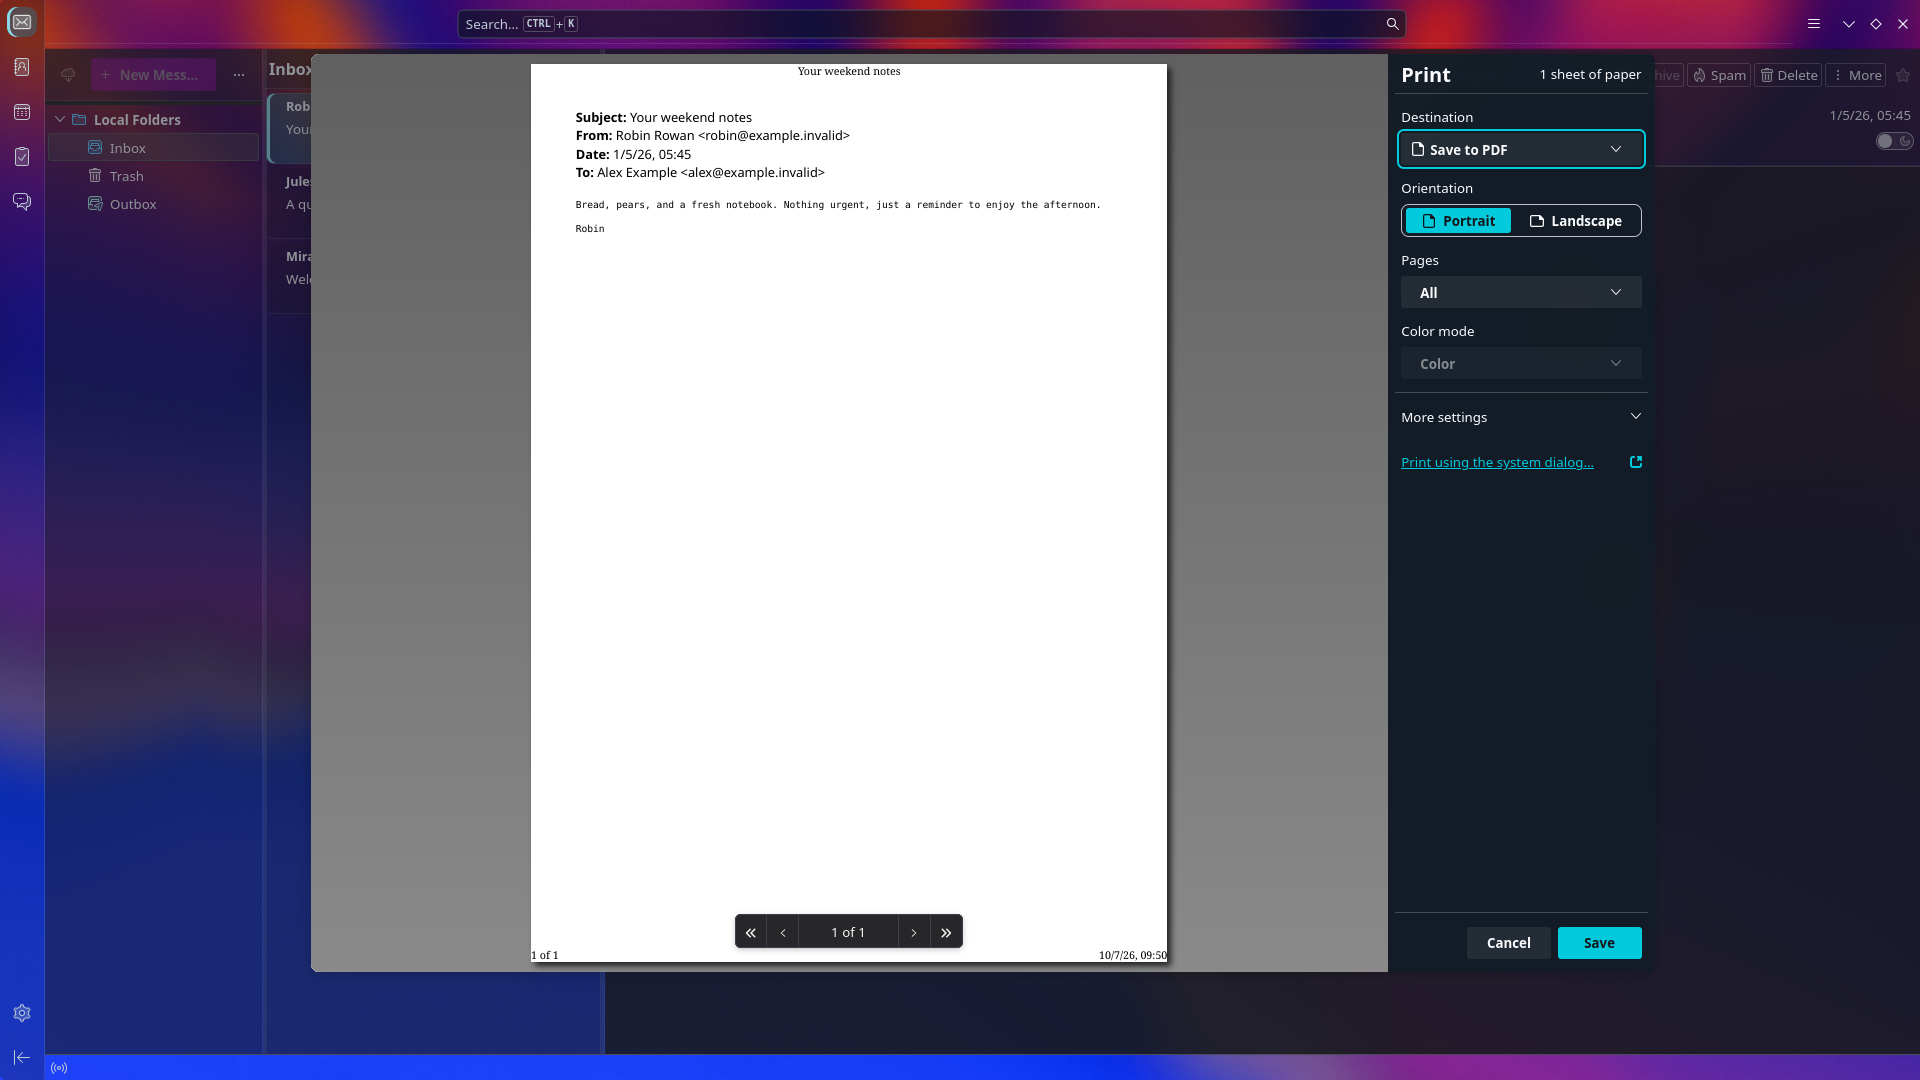
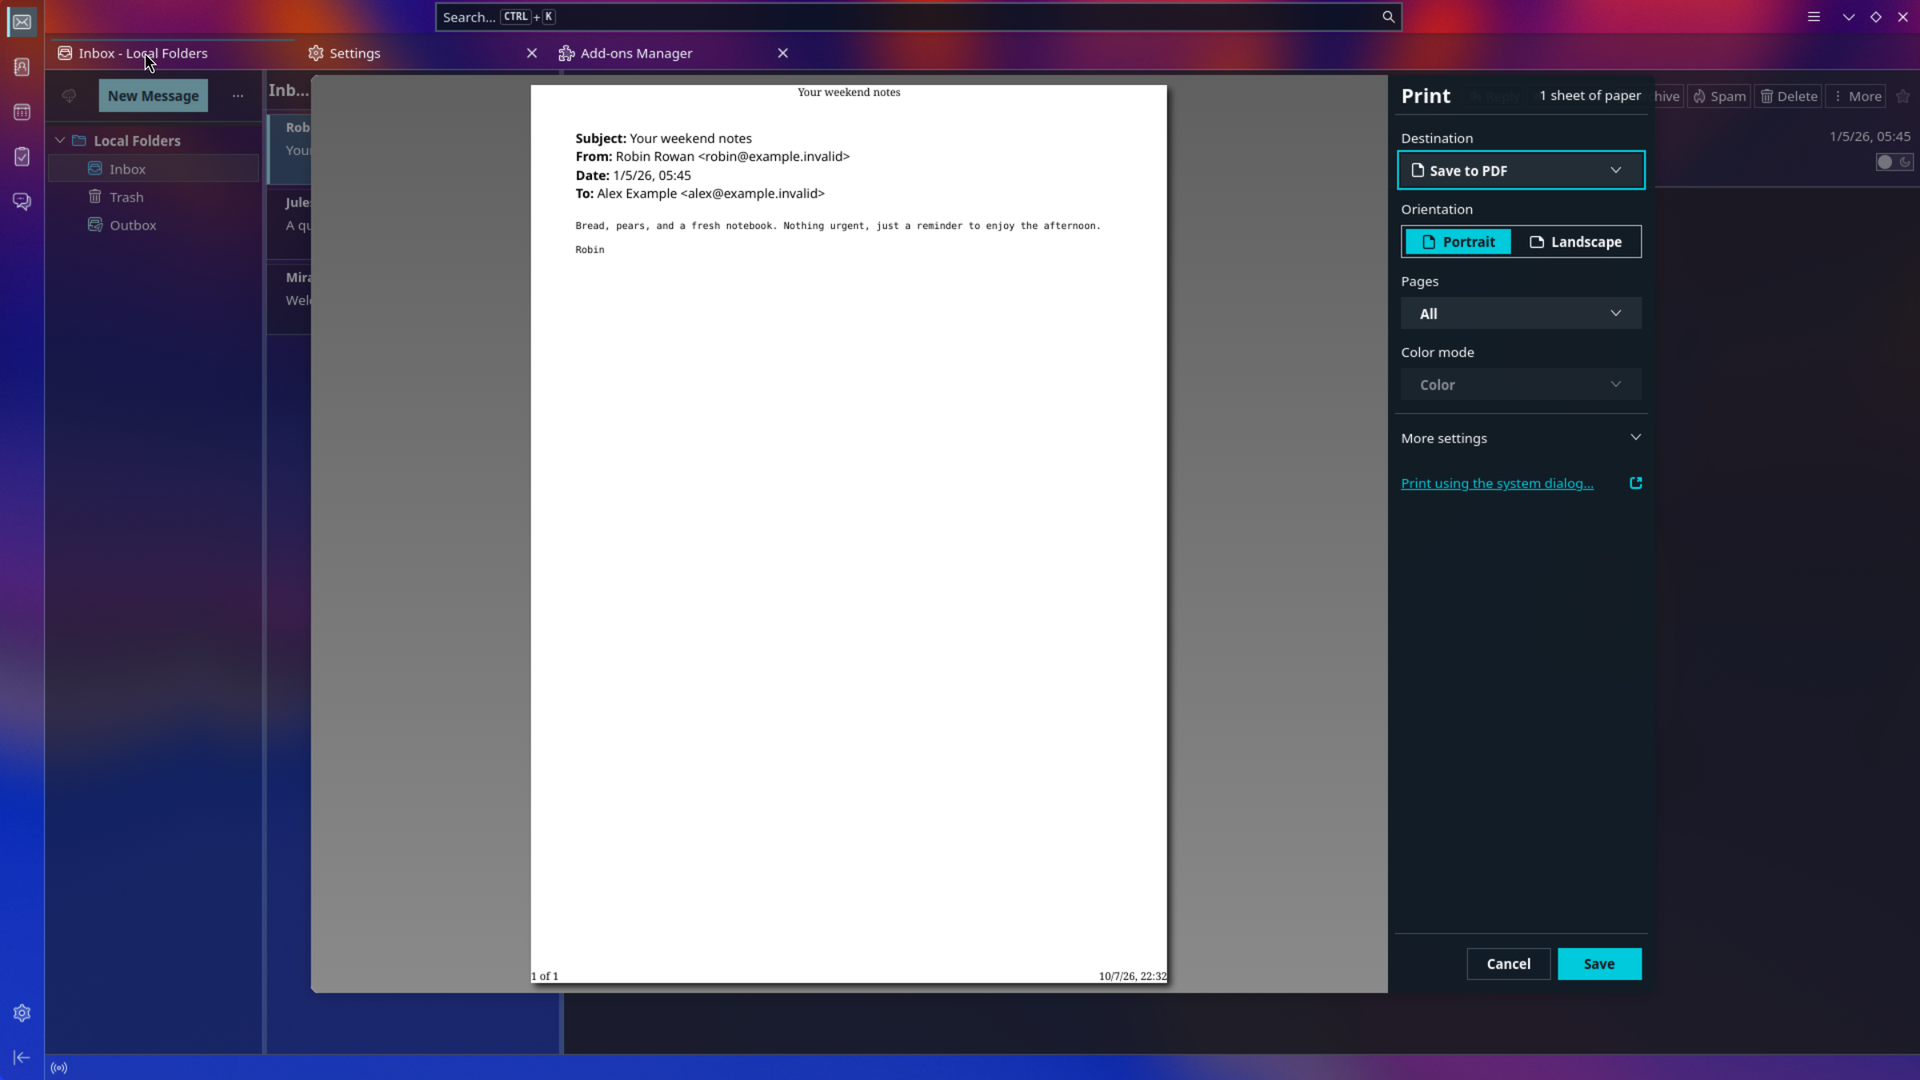
Refine glass surfaces with square controls and clearer light chrome (#1)

diff --git a/styles/glass.css b/styles/glass.css
@@ -50,7 +50,7 @@
       --focus-outline-color: var(--ag-accent) !important;
 
     }
-    :root#messengerWindow > body, #messengerBody, #tabmail, #tabpanelcontainer { background: transparent !important; }
+    :root#messengerWindow > body, #messengerBody, #tabmail, #tabpanelcontainer, .contentTabInstance, .contentTabInstance > stack, [id^="preferencesTabWrapper"], [id^="contentTabWrapper"] { background: transparent !important; }
     /* The shell is one clear drag surface. Only the search field paints glass;
      * clearing every wrapper avoids the large rectangle and stacked alpha. */
     #navigation-toolbox, #titlebar, unified-toolbar, #unifiedToolbarContainer,
@@ -123,7 +123,7 @@
     #spacesToolbar .spaces-toolbar-button {
       color: var(--ag-muted) !important;
       opacity: 1 !important;
-      border-radius: 10px !important;
+      border-radius: 0;
       outline-offset: 2px !important;
     }
     #spacesToolbar .spaces-toolbar-button:hover:not(.current) {
@@ -160,7 +160,7 @@
       background: var(--ag-field) !important;
       color: var(--ag-ink) !important;
       border: 1px solid var(--ag-line) !important;
-      border-radius: 9px !important;
+      border-radius: 0;
       box-shadow: 0 2px 6px rgba(0,0,0,.06) !important;
     }
     #folderPane { background: var(--ag-sidebar) !important; color: var(--ag-ink) !important; }
@@ -178,7 +178,7 @@
       color: var(--ag-ink) !important;
       border: 1px solid light-dark(rgba(48,53,56,.12), rgba(181,214,230,.18)) !important;
       border-bottom-color: var(--ag-line) !important;
-      border-radius: 8px !important;
+      border-radius: 0;
       box-shadow: 0 2px 8px rgba(18,58,75,.06) !important;
     }
     #threadTree .card-layout:hover .card-container,
@@ -203,7 +203,7 @@
       background: light-dark(#0b6078, #9be1ef) !important;
       color: light-dark(#fff, #102732) !important;
       border: 1px solid var(--ag-accent) !important;
-      border-radius: 9px !important;
+      border-radius: 0;
       box-shadow: 0 2px 7px rgba(15,46,58,.16) !important;
     }
     #folderPaneWriteMessage:hover:not(:disabled) {
@@ -216,21 +216,16 @@
     /* One glass layer; nested wrappers must not stack their opacity. */
     #messagePane, #messagepane, #messagepaneboxwrapper { background: transparent !important; }
     #messagepanebox { background: var(--ag-message) !important; color: var(--ag-ink) !important; }
-    /* Keep message text and images at full strength. The parent glass surface
-     * provides translucency without fading the entire email renderer. */
-    browser[id^="preferencesTabBrowser"] { opacity: .90 !important; }
-    /* Built-in content pages such as Add-ons Manager paint an opaque canvas.
-     * Blend those tab browsers with the backdrop while preserving mail and
-     * preferences, which have their own carefully tuned opacity. */
-    #tabmail browser:not(#messagepane):not([id^="preferencesTabBrowser"]) {
-      opacity: .82 !important;
-    }
+    /* Gecko can paint an opaque mail canvas. Blend only the reader frame;
+     * this also fades text/images, so accessibility and print restore opacity. */
+    #messagepane { opacity: .78 !important; }
+    browser[id^="preferencesTabBrowser"] { opacity: .78 !important; }
     #messageHeader { background: var(--ag-bar) !important; color: var(--ag-ink) !important; border-bottom: 1px solid var(--ag-line) !important; }
     #folderPaneSplitter, #messagePaneSplitter { background: var(--ag-line) !important; border: 0 !important; }
     .tabmail-tab[selected="true"], .tabmail-tab[visuallyselected="true"] {
       background: var(--ag-select) !important;
       color: var(--ag-ink) !important;
-      border-radius: 8px 8px 0 0 !important;
+      border-radius: 0;
     }
     #unifiedToolbar button:hover, #folderPaneHeaderBar button:hover { background-color: var(--ag-hover) !important; }
     :is(#unifiedToolbar, #folderPaneHeaderBar, #threadPaneHeaderBar) :is(button, input):focus-visible {
@@ -245,9 +240,9 @@
     #unifiedToolbar :is(button, toolbarbutton), #titlebar .titlebar-button,
     #status-bar :is(button, toolbarbutton),
     #tabs-toolbar .tabmail-tab:not([selected]) {
-      background-color: rgba(250,249,246,.58) !important;
+      background-color: transparent !important;
       color: #25292b !important;
-      border-radius: 5px !important;
+      border-radius: 0;
     }
     #status-bar :is(.statusbarpanel, #statusTextBox) {
       color: #f6fafc !important;
@@ -274,7 +269,7 @@
     #folderTree li.selected > .container {
       background: var(--ag-select) !important;
       box-shadow: inset 3px 0 var(--ag-accent) !important;
-      border-radius: 5px !important;
+      border-radius: 0;
     }
     #folderTree:focus-within li.selected > .container {
       outline: 1px solid #126a70 !important;
@@ -314,7 +309,7 @@
     #threadTree .card-container {
       background: rgba(253,252,249,.50) !important;
       border-color: rgba(255,255,252,.35) !important;
-      border-radius: 7px !important;
+      border-radius: 0;
       box-shadow: none !important;
     }
     #threadTree .card-container .date { color: #414e54 !important; }
@@ -333,19 +328,13 @@
     browser[id^="preferencesTabBrowser"] { opacity: 1 !important; }
   }
   @media screen and (prefers-reduced-transparency: reduce) {
-    #messagepane, browser[id^="preferencesTabBrowser"],
-    #tabmail browser:not(#messagepane):not([id^="preferencesTabBrowser"]) {
-      opacity: 1 !important;
-    }
+    #messagepane, browser[id^="preferencesTabBrowser"] { opacity: 1 !important; }
     :root { --ag-glass: var(--ag-paper); --ag-sidebar: var(--ag-paper); --ag-rail: var(--ag-paper); --ag-bar: var(--ag-paper); --ag-message: var(--ag-paper); }
     :root#messengerWindow, #paneLayout, #navigation-toolbox, #unifiedToolbar,
     #unifiedToolbarContent, #tabs-toolbar, #status-bar { background: var(--ag-paper) !important; }
   }
   @media (forced-colors: active) {
-    #messagepane, browser[id^="preferencesTabBrowser"],
-    #tabmail browser:not(#messagepane):not([id^="preferencesTabBrowser"]) {
-      opacity: 1 !important;
-    }
+    #messagepane, browser[id^="preferencesTabBrowser"] { opacity: 1 !important; }
     :root#messengerWindow, #paneLayout, #spacesToolbar {
       background: Canvas !important;
       background-image: none !important;
@@ -370,10 +359,7 @@
     }
   }
   @media print {
-    #messagepane, browser[id^="preferencesTabBrowser"],
-    #tabmail browser:not(#messagepane):not([id^="preferencesTabBrowser"]) {
-      opacity: 1 !important;
-    }
+    #messagepane, browser[id^="preferencesTabBrowser"] { opacity: 1 !important; }
     :root#messengerWindow { background: white !important; color: black !important; }
   }
 }
@@ -428,18 +414,18 @@
     #composeContentBox { background: transparent !important; }
     #messageArea { background: var(--ag-glass) !important; color: var(--ag-ink) !important; }
     /* Frame opacity also works when Gecko paints an opaque editor canvas.
-     * Keep it modest: the writing surface, glyphs and caret retain 88% strength. */
+     * The writing surface, glyphs and caret retain 76% strength. */
     #messageEditor {
       background: transparent !important;
       color: var(--ag-ink) !important;
-      opacity: .88 !important;
+      opacity: .76 !important;
     }
     #MsgHeadersToolbar :is(input, textbox, menulist, .address-row-input),
     #MsgHeadersToolbar :is(#msgIdentity, #toAddrInput, #ccAddrInput, #bccAddrInput, #replyAddrInput, #newsgroupsInput, #followupToInput, #msgSubject) {
       background: var(--ag-field) !important;
       color: var(--ag-ink) !important;
       border: 1px solid var(--ag-line) !important;
-      border-radius: 8px !important;
+      border-radius: 0;
       box-shadow: none !important;
     }
     #MsgHeadersToolbar label, #MsgHeadersToolbar description { color: var(--ag-muted) !important; }
@@ -448,7 +434,7 @@
     #composeToolbar2 #button-send {
       background: light-dark(#09616a, #9be1ef) !important;
       color: light-dark(#fff, #102732) !important;
-      border-radius: 8px !important;
+      border-radius: 0;
     }
     #compose-toolbox toolbarbutton:hover, #FormatToolbar toolbarbutton:hover,
     #MsgHeadersToolbar button:hover { background: var(--ag-hover) !important; }
@@ -470,5 +456,57 @@
   @media print {
     #messageEditor { opacity: 1 !important; }
     :root#msgcomposeWindow, #composeContentBox, #messageArea { background: white !important; color: black !important; }
+  }
+}
+
+/* Architectural edges: flat controls, explicit focus, and a single accent seam.
+ * No overlays are inserted over text or native click targets. */
+@-moz-document url("chrome://messenger/content/messenger.xhtml"), url-prefix("about:3pane"), url-prefix("about:message"), url("chrome://messenger/content/about3Pane.xhtml"), url("chrome://messenger/content/aboutMessage.xhtml"), url("chrome://messenger/content/messageWindow.xhtml"), url("chrome://messenger/content/messengercompose/messengercompose.xhtml") {
+  @media screen and (forced-colors: none) {
+    :is(button, toolbarbutton, input, textbox, menulist, .tab-background, .tabmail-tab, .card-container, .container, .search-bar) {
+      border-radius: 0 !important;
+    }
+    #folderPaneWriteMessage { padding-inline: 8px !important; }
+    #tabs-toolbar .tabmail-tab:not([selected="true"]):not([visuallyselected="true"]),
+    #tabs-toolbar .tabmail-tab:not([selected="true"]):not([visuallyselected="true"]) .tab-background {
+      background: transparent !important;
+      box-shadow: none !important;
+      border-color: transparent !important;
+    }
+    :is(#unifiedToolbar, #composeToolbar2, #FormatToolbar) :is(button, toolbarbutton):not(:hover):not(:active):not([checked="true"]):not(#button-send) {
+      background: transparent !important;
+      box-shadow: none !important;
+      border-color: transparent !important;
+    }
+    #threadPaneHeaderBar, #MsgHeadersToolbar {
+      border-bottom-color: color-mix(in srgb, var(--ag-accent) 32%, transparent) !important;
+      box-shadow: 0 1px 8px color-mix(in srgb, var(--ag-accent) 9%, transparent) !important;
+    }
+    /* Scope fading to application utility tabs, never arbitrary web content. */
+    browser[id^="preferencesTabBrowser"], browser[data-vesperwing-utility="true"],
+    browser[src^="chrome://mozapps/content/extensions/aboutaddons"] { opacity: .78 !important; }
+  }
+  @media (prefers-reduced-transparency: reduce), (forced-colors: active) {
+    browser[id^="preferencesTabBrowser"], browser[data-vesperwing-utility="true"],
+    browser[src^="chrome://mozapps/content/extensions/aboutaddons"] { opacity: 1 !important; }
+    #threadPaneHeaderBar, #MsgHeadersToolbar { box-shadow: none !important; }
+  }
+}
+
+@-moz-document url("chrome://messenger/content/messenger.xhtml") {
+  @media screen and (prefers-color-scheme: light) and (forced-colors: none) {
+    #unifiedToolbar :is(button, toolbarbutton), #titlebar .titlebar-button,
+    #tabs-toolbar .tabmail-tab:not([selected="true"]):not([visuallyselected="true"]) {
+      color: #f6fafc !important;
+      text-shadow: 0 1px 3px rgba(0,0,0,.85) !important;
+      --toolbarbutton-icon-fill: currentColor !important;
+    }
+    #tabs-toolbar .tabmail-tab:is([selected="true"], [visuallyselected="true"]),
+    #tabs-toolbar .tabmail-tab:is([selected="true"], [visuallyselected="true"]) .tab-background {
+      background: rgba(246,252,249,.86) !important;
+      color: #20292d !important;
+      box-shadow: inset 0 2px #126a70 !important;
+      text-shadow: none !important;
+    }
   }
 }

diff --git a/styles/content.css b/styles/content.css
@@ -44,7 +44,7 @@
     addon-card > .addon.card, .addon-card-collapsed {
       background: var(--background-color-box) !important;
       border: 1px solid var(--border-color) !important;
-      border-radius: 10px !important;
+      border-radius: 0;
       box-shadow: none !important;
     }
   }
@@ -59,7 +59,7 @@
   }
 }
 
-/* The editor frame blends at 88% in userChrome.css. Give it a predictable
+/* The editor frame blends at 76% in userChrome.css. Give it a predictable
  * canvas here: fading this isolated frame exposes glass without a privileged
  * script or changing the background stored in the authored message. */
 @-moz-document url("about:blank?compose") {
@@ -92,5 +92,29 @@
   }
   @media (prefers-reduced-transparency: reduce), (forced-colors: active) {
     :root, body { background: Canvas !important; }
+  }
+}
+
+/* Straight-edged utility controls; preserve radio/check shapes as affordances. */
+@-moz-document url-prefix("about:preferences"), url("chrome://messenger/content/preferences/preferences.xhtml"), url-prefix("about:addons"), url-prefix("chrome://mozapps/content/extensions/aboutaddons.html"), url("chrome://global/content/print.html") {
+  @media screen and (forced-colors: none) {
+    :root {
+      --border-radius-small: 0 !important;
+      --border-radius-medium: 0 !important;
+      --border-radius-large: 0 !important;
+      --button-border-radius: 0 !important;
+    }
+    button, input:not([type="radio"]):not([type="checkbox"]), select,
+    menulist, .category, .card, .addon, .addon-card-collapsed,
+    .category[selected], radio, .radio-check, .view-style-item,
+    .sync-panel, .qr-panel, .qr-subpanel, .info-box-container,
+    .updateSettingCrossUserWarningContainer, #handlersView {
+      border-radius: 0 !important;
+    }
+    button:not(.primary):not(:hover):not(:active) {
+      background-color: transparent !important;
+      border-color: light-dark(rgba(35,49,55,.25), rgba(181,214,230,.28)) !important;
+      box-shadow: none !important;
+    }
   }
 }
